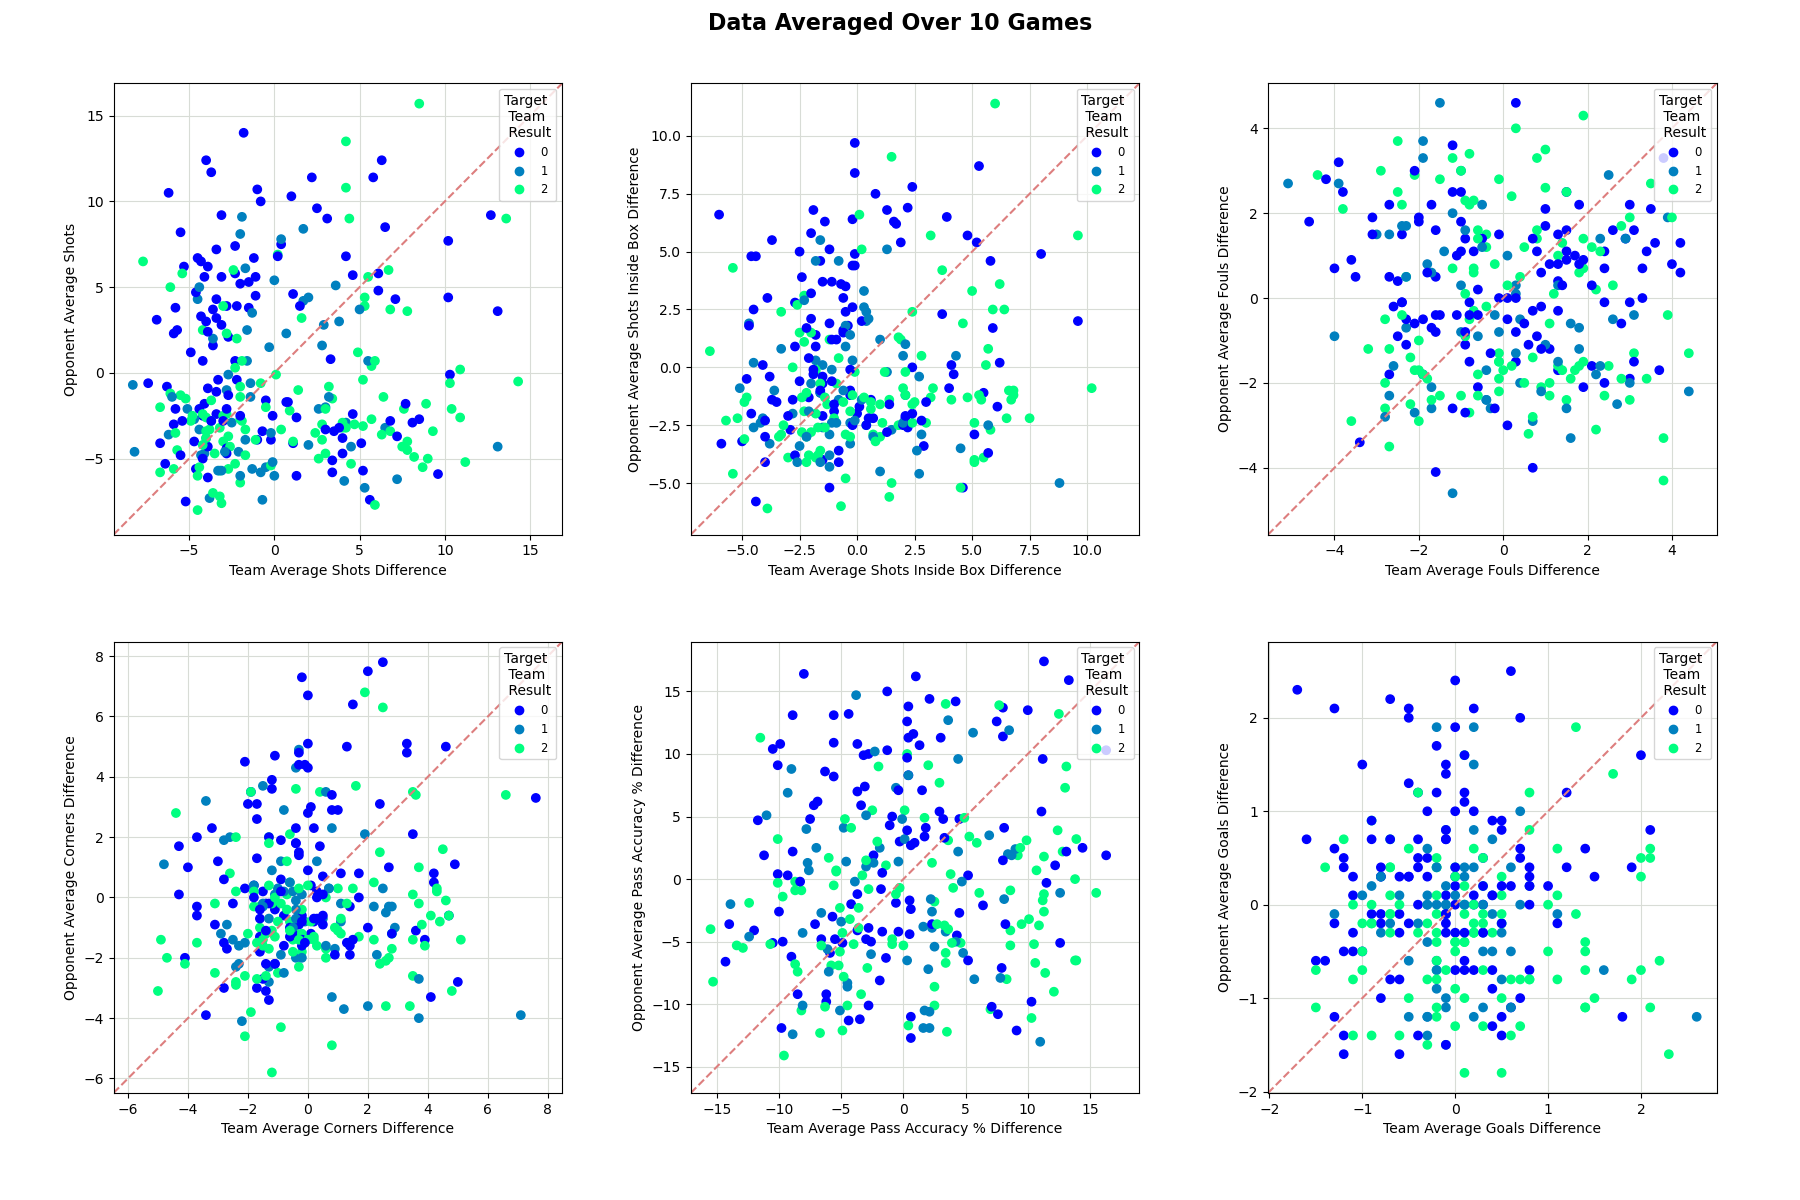
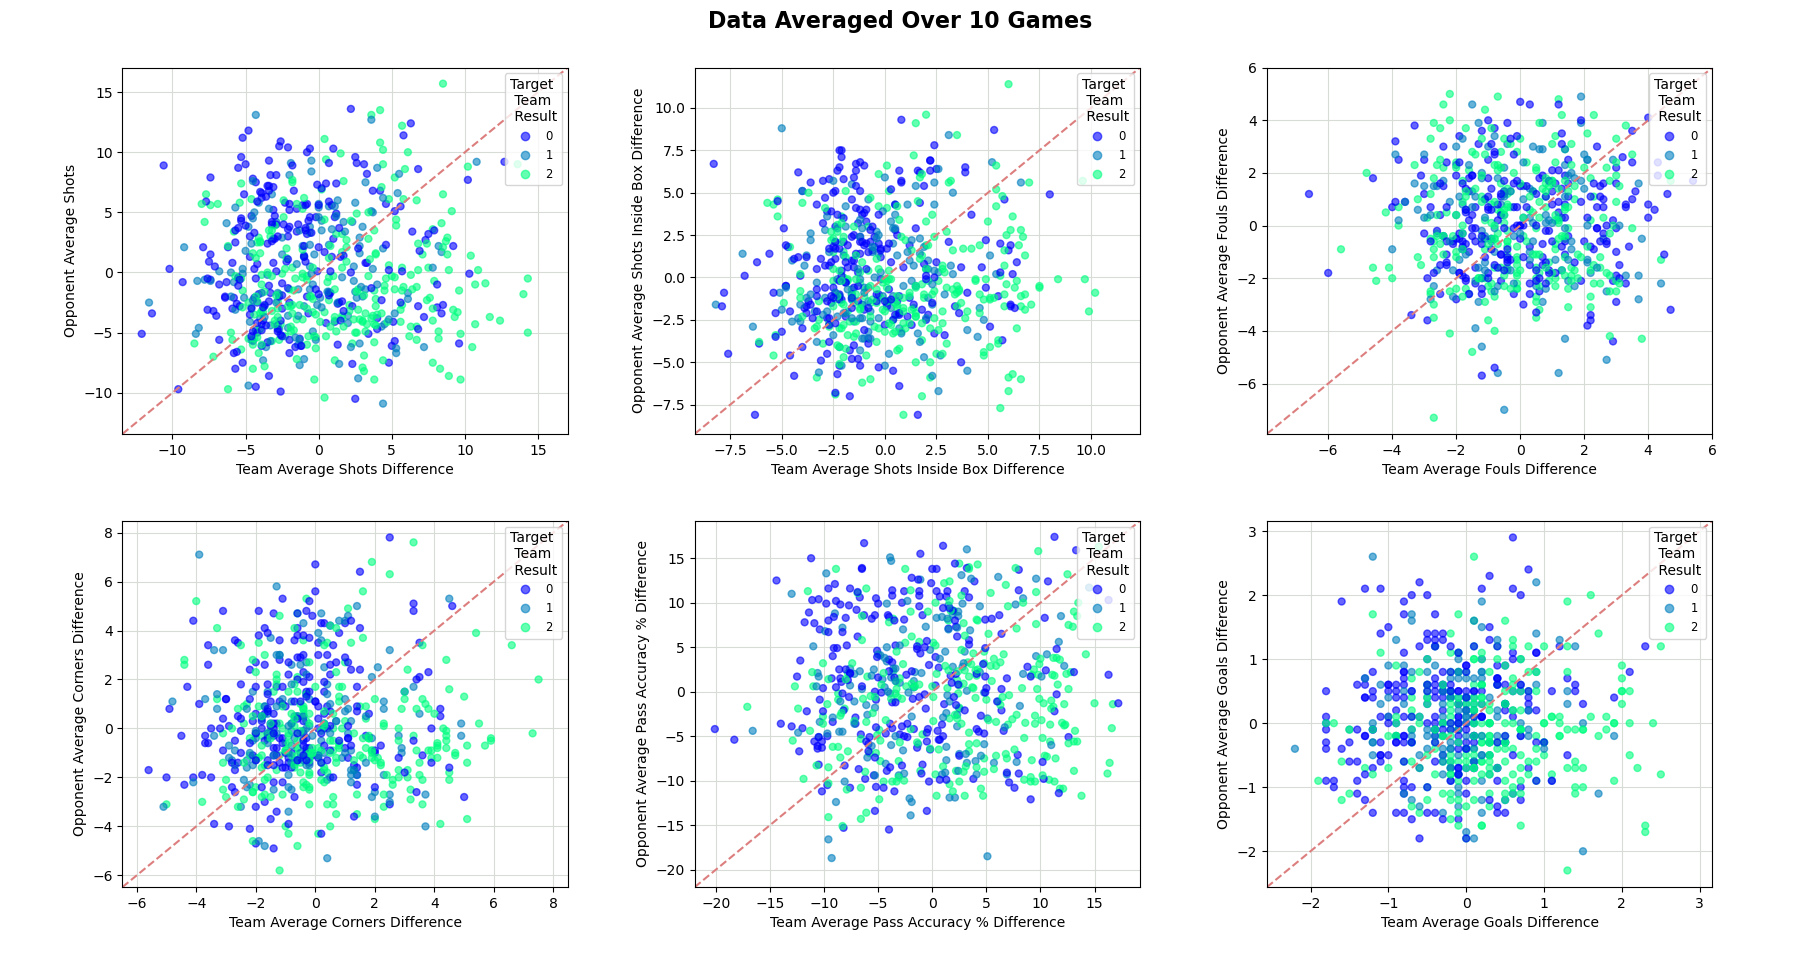
Data Visualisation - Figures Remake

diff --git a/04_feature_engineering_data_visualisation.py b/04_feature_engineering_data_visualisation.py
@@ -25,8 +25,8 @@ plt.close('all')
 
 #Please state the name of the saved stats DataFrames generated with '03_feature_engineering.py'. Also state whether figures should be saved and the colour theme of the figures.
 
-df_5_saved_name = '2019_2020_prem_df_for_ml_5_v2.txt'
-df_10_saved_name = '2019_2020_prem_df_for_ml_10_v2.txt'
+df_5_saved_name = '2019_2020_2021_prem_df_for_ml_5_v2.txt'
+df_10_saved_name = '2019_2020_2021_prem_df_for_ml_10_v2.txt'
 
 save_df_10_fig = False
 save_df_5_fig = False
@@ -77,37 +77,52 @@ fig, ((ax1, ax2, ax3),(ax4, ax5, ax6)) = plt.subplots(ncols=3,
 
 fig.suptitle('Data Averaged Over 10 Games', y=0.99, fontsize=16, fontweight='bold');
 
+transparency = 0.6
+markersize = 25
+
 #plotting the 6 figures
 scat1 = ax1.scatter(df_ml_10['Team Av Shots Diff'], 
                    df_ml_10['Opponent Av Shots Diff'], 
                    c=df_ml_10['Team Result Indicator'],
-                   cmap = colourbar);
+                   cmap = colourbar,
+                   alpha=transparency,
+                   s=markersize);
 
 scat2 = ax2.scatter(df_ml_10['Team Av Shots Inside Box Diff'], 
                    df_ml_10['Opponent Av Shots Inside Box Diff'], 
                    c=df_ml_10['Team Result Indicator'],
-                   cmap = colourbar);
+                   cmap = colourbar,
+                   alpha=transparency,
+                   s=markersize);
 
 scat3 = ax3.scatter(df_ml_10['Team Av Fouls Diff'], 
                    df_ml_10['Opponent Av Fouls Diff'], 
                    c=df_ml_10['Team Result Indicator'],
-                   cmap = colourbar);
+                   cmap = colourbar,
+                   alpha=transparency,
+                   s=markersize);
 
 scat4 = ax4.scatter(df_ml_10['Team Av Corners Diff'], 
                    df_ml_10['Opponent Av Corners Diff'], 
                    c=df_ml_10['Team Result Indicator'],
-                   cmap = colourbar);
+                   cmap = colourbar,
+                   alpha=transparency,
+                   s=markersize);
 
 
 scat5 = ax5.scatter(df_ml_10['Team Av Pass Accuracy Diff'], 
                    df_ml_10['Opponent Av Pass Accuracy Diff'], 
                    c=df_ml_10['Team Result Indicator'],
-                   cmap = colourbar);
+                   cmap = colourbar,
+                   alpha=transparency,
+                   s=markersize);
 
 scat6 = ax6.scatter(df_ml_10['Team Av Goal Diff'], 
                    df_ml_10['Opponent Av Goal Diff'], 
                    c=df_ml_10['Team Result Indicator'],
-                   cmap = colourbar);
+                   cmap = colourbar,
+                   alpha=transparency,
+                   s=markersize);
 
 #setting axis and legend for all 6 figures
 fig.tight_layout(pad=6)
@@ -165,33 +180,45 @@ fig.suptitle('Data Averaged Over 5 Games', y=0.99, fontsize=16, fontweight='bold
 scat1 = ax1.scatter(df_ml_5['Team Av Shots Diff'], 
                    df_ml_5['Opponent Av Shots Diff'], 
                    c=df_ml_5['Team Result Indicator'],
-                   cmap = colourbar);
+                   cmap = colourbar,
+                   alpha=transparency,
+                   s=markersize);
 
 scat2 = ax2.scatter(df_ml_5['Team Av Shots Inside Box Diff'], 
                    df_ml_5['Opponent Av Shots Inside Box Diff'], 
                    c=df_ml_5['Team Result Indicator'],
-                   cmap = colourbar);
+                   cmap = colourbar,
+                   alpha=transparency,
+                   s=markersize);
 
 scat3 = ax3.scatter(df_ml_5['Team Av Fouls Diff'], 
                    df_ml_5['Opponent Av Fouls Diff'], 
                    c=df_ml_5['Team Result Indicator'],
-                   cmap = colourbar);
+                   cmap = colourbar,
+                   alpha=transparency,
+                   s=markersize);
 
 scat4 = ax4.scatter(df_ml_5['Team Av Corners Diff'], 
                    df_ml_5['Opponent Av Corners Diff'], 
                    c=df_ml_5['Team Result Indicator'],
-                   cmap = colourbar);
+                   cmap = colourbar,
+                   alpha=transparency,
+                   s=markersize);
 
 
 scat5 = ax5.scatter(df_ml_5['Team Av Pass Accuracy Diff'], 
                    df_ml_5['Opponent Av Pass Accuracy Diff'], 
                    c=df_ml_5['Team Result Indicator'],
-                   cmap = colourbar);
+                   cmap = colourbar,
+                   alpha=transparency,
+                   s=markersize);
 
 scat6 = ax6.scatter(df_ml_5['Team Av Goal Diff'], 
                    df_ml_5['Opponent Av Goal Diff'], 
                    c=df_ml_5['Team Result Indicator'],
-                   cmap = colourbar);
+                   cmap = colourbar,
+                   alpha=transparency,
+                   s=markersize);
 
 #setting axis and legend for all 6 figures
 fig.tight_layout(pad=6)
